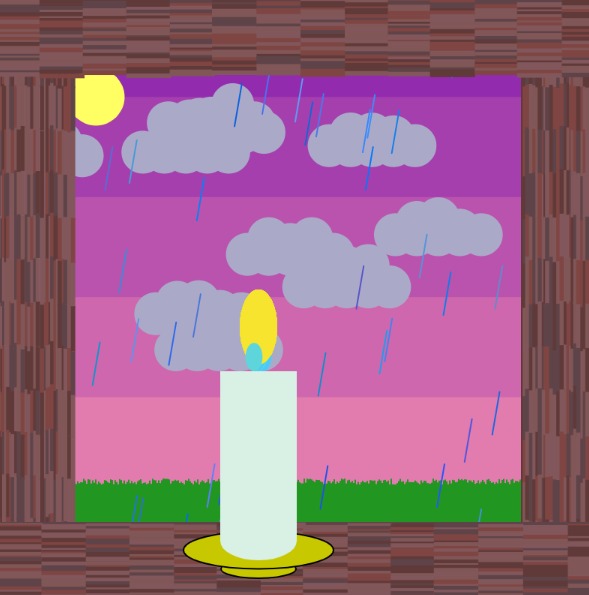
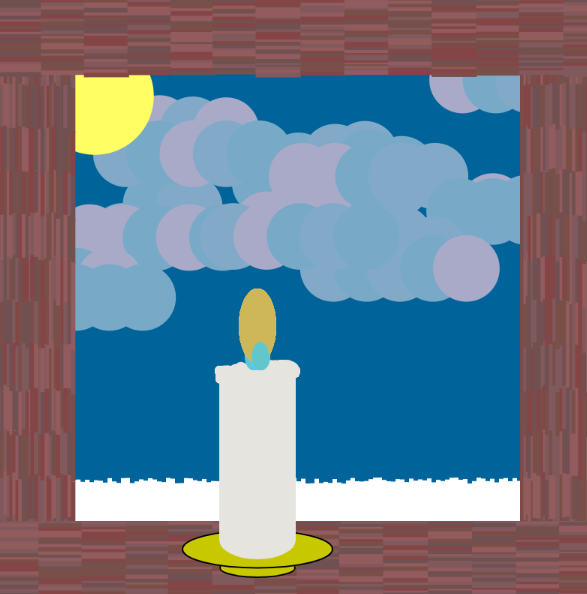
Some commentary

diff --git a/art/live/index.md b/art/live/index.md
@@ -23,6 +23,12 @@ Try clicking the art pieces. Some of them interact.
 ![May 11 Sketch Preview](/img/art/candle3.PNG)
 </a>
 
+My recent meditiation theme has been on slowing down.
+
++ The wood grain algorithm is a refinement on the grass algorithm in the tree sketch.
++ The dribbling wax just makes me smile.
++ The sky algorithm is subtly shifted to later evening, to justify the presence of the candle.
+
 [May 11 Sketch - Candle](/art/live/candle)
 
 
@@ -34,6 +40,9 @@ Try clicking the art pieces. Some of them interact.
 ![May 8 Sketch Preview](/img/art/tree2.PNG)
 ![May 8 Sketch Preview](/img/art/tree5.PNG)
 </a>
+
+This was an interesting technical challenge to create random branching rules that feel natural.
++ Most of the effort on the background was to give the tree a space to feel more alive.
 
 [May 8 Sketch - Tree](/art/live/tree)
 
@@ -47,9 +56,16 @@ Try clicking the art pieces. Some of them interact.
 ![May 2 Sketch Preview](/img/art/waves2.PNG)
 </a>
 
+This is the first sketch where I felt confident enough to try a non-abstract subject.
+
+
 [May 2 Sketch - Waves](/art/live/waves)
 
 ## April 2021 Sketches
+
+The abstract pieces below are loosely based on actual sketches I have drawn.
+
+The final live art has very little in common with the original sketches due to my limited mastery of JavaScript as an art medium. 
 
 <a href="/art/live/deep">
 
